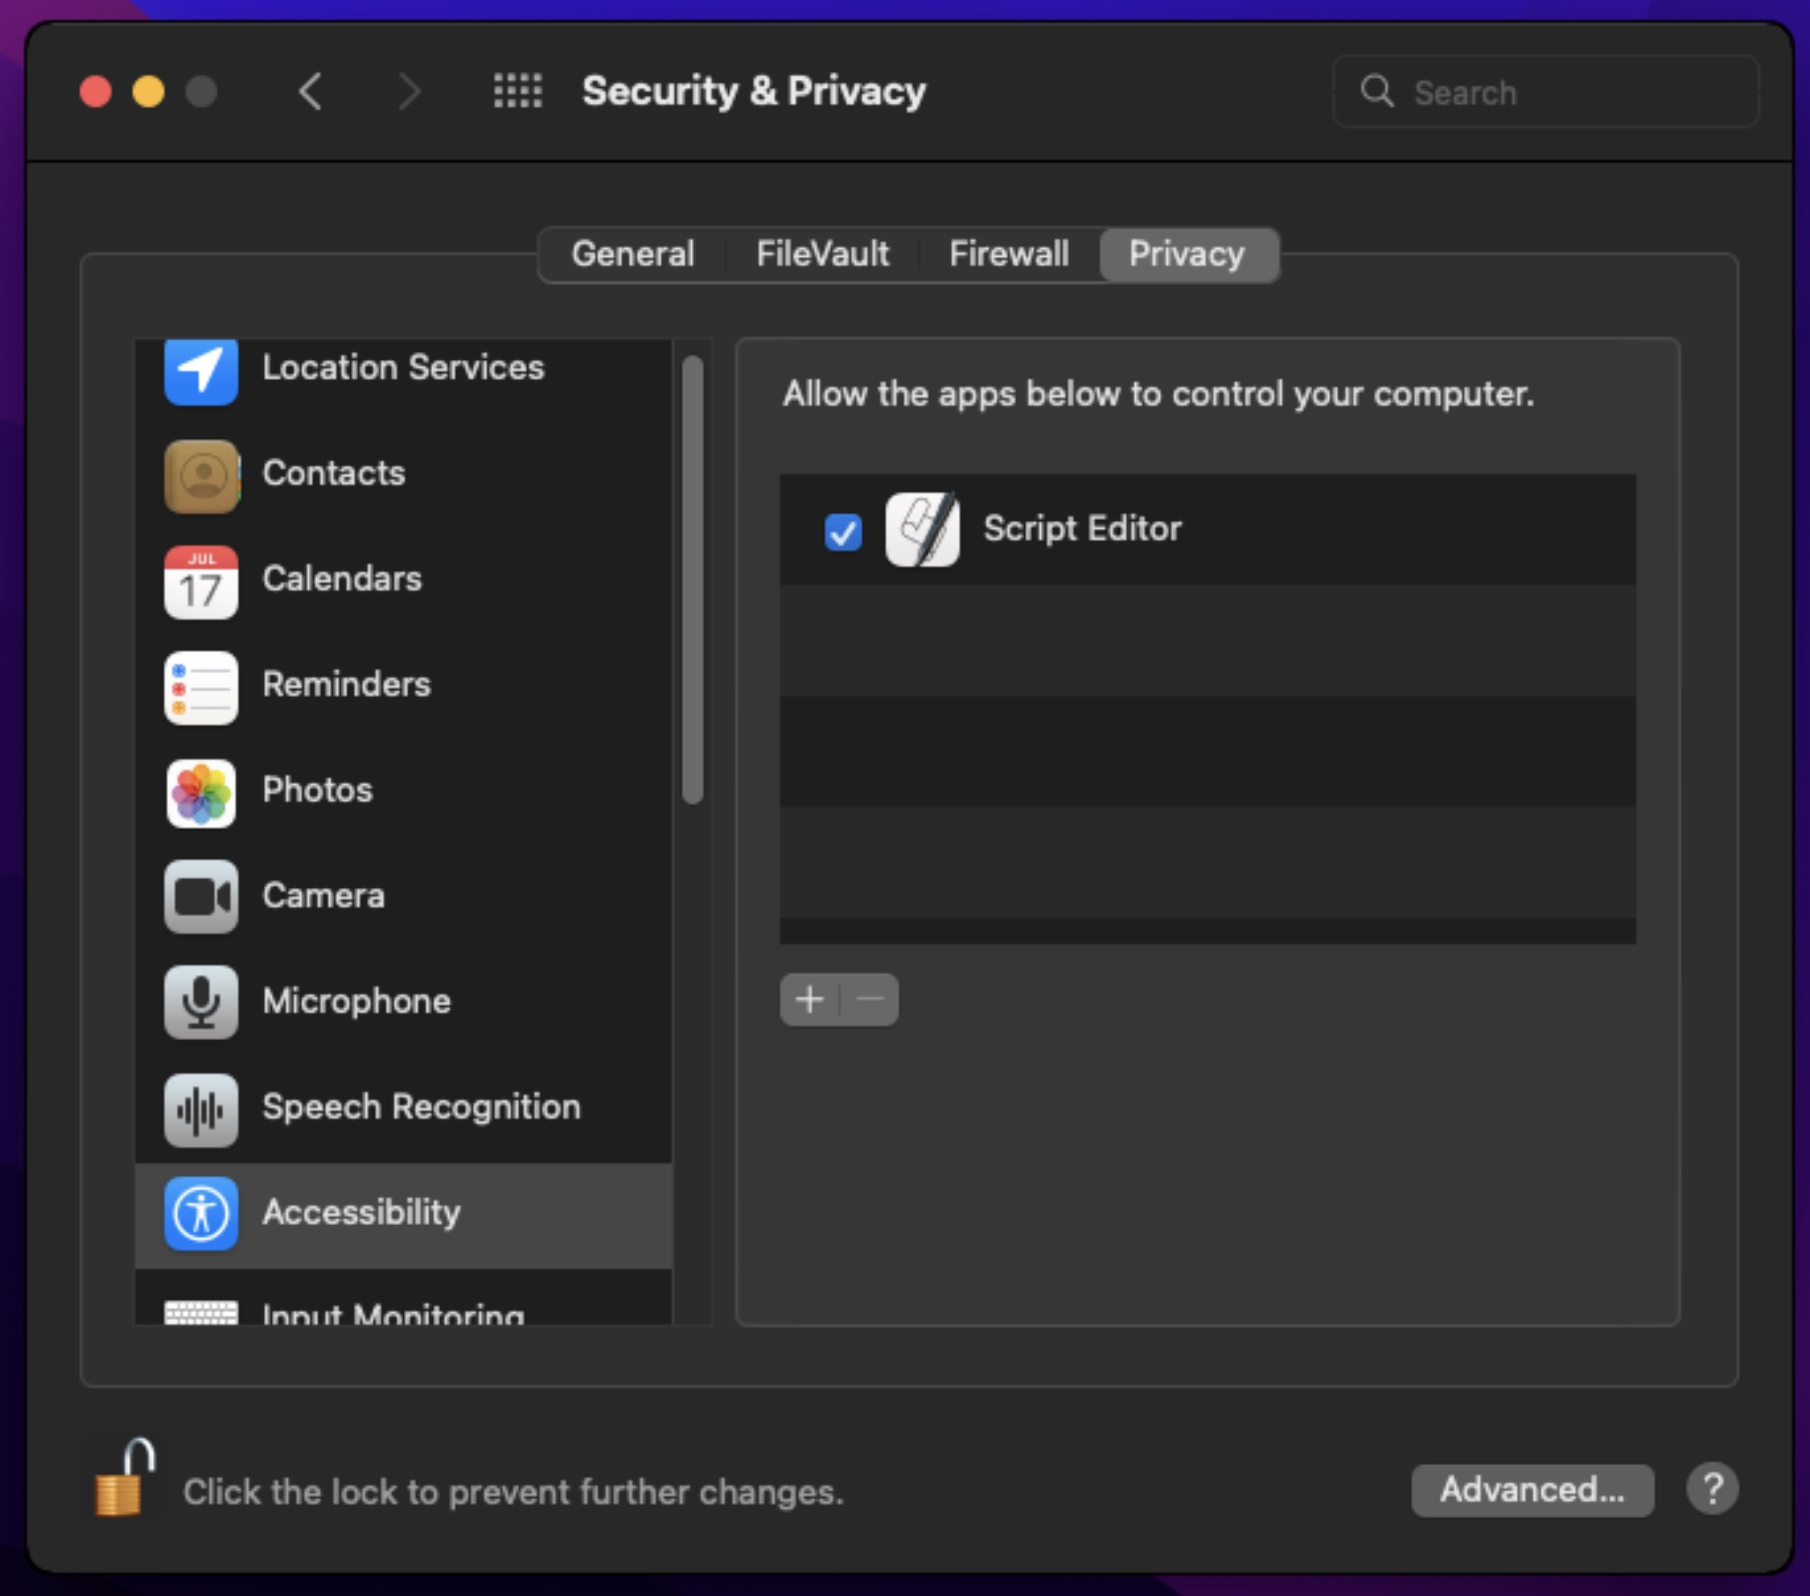
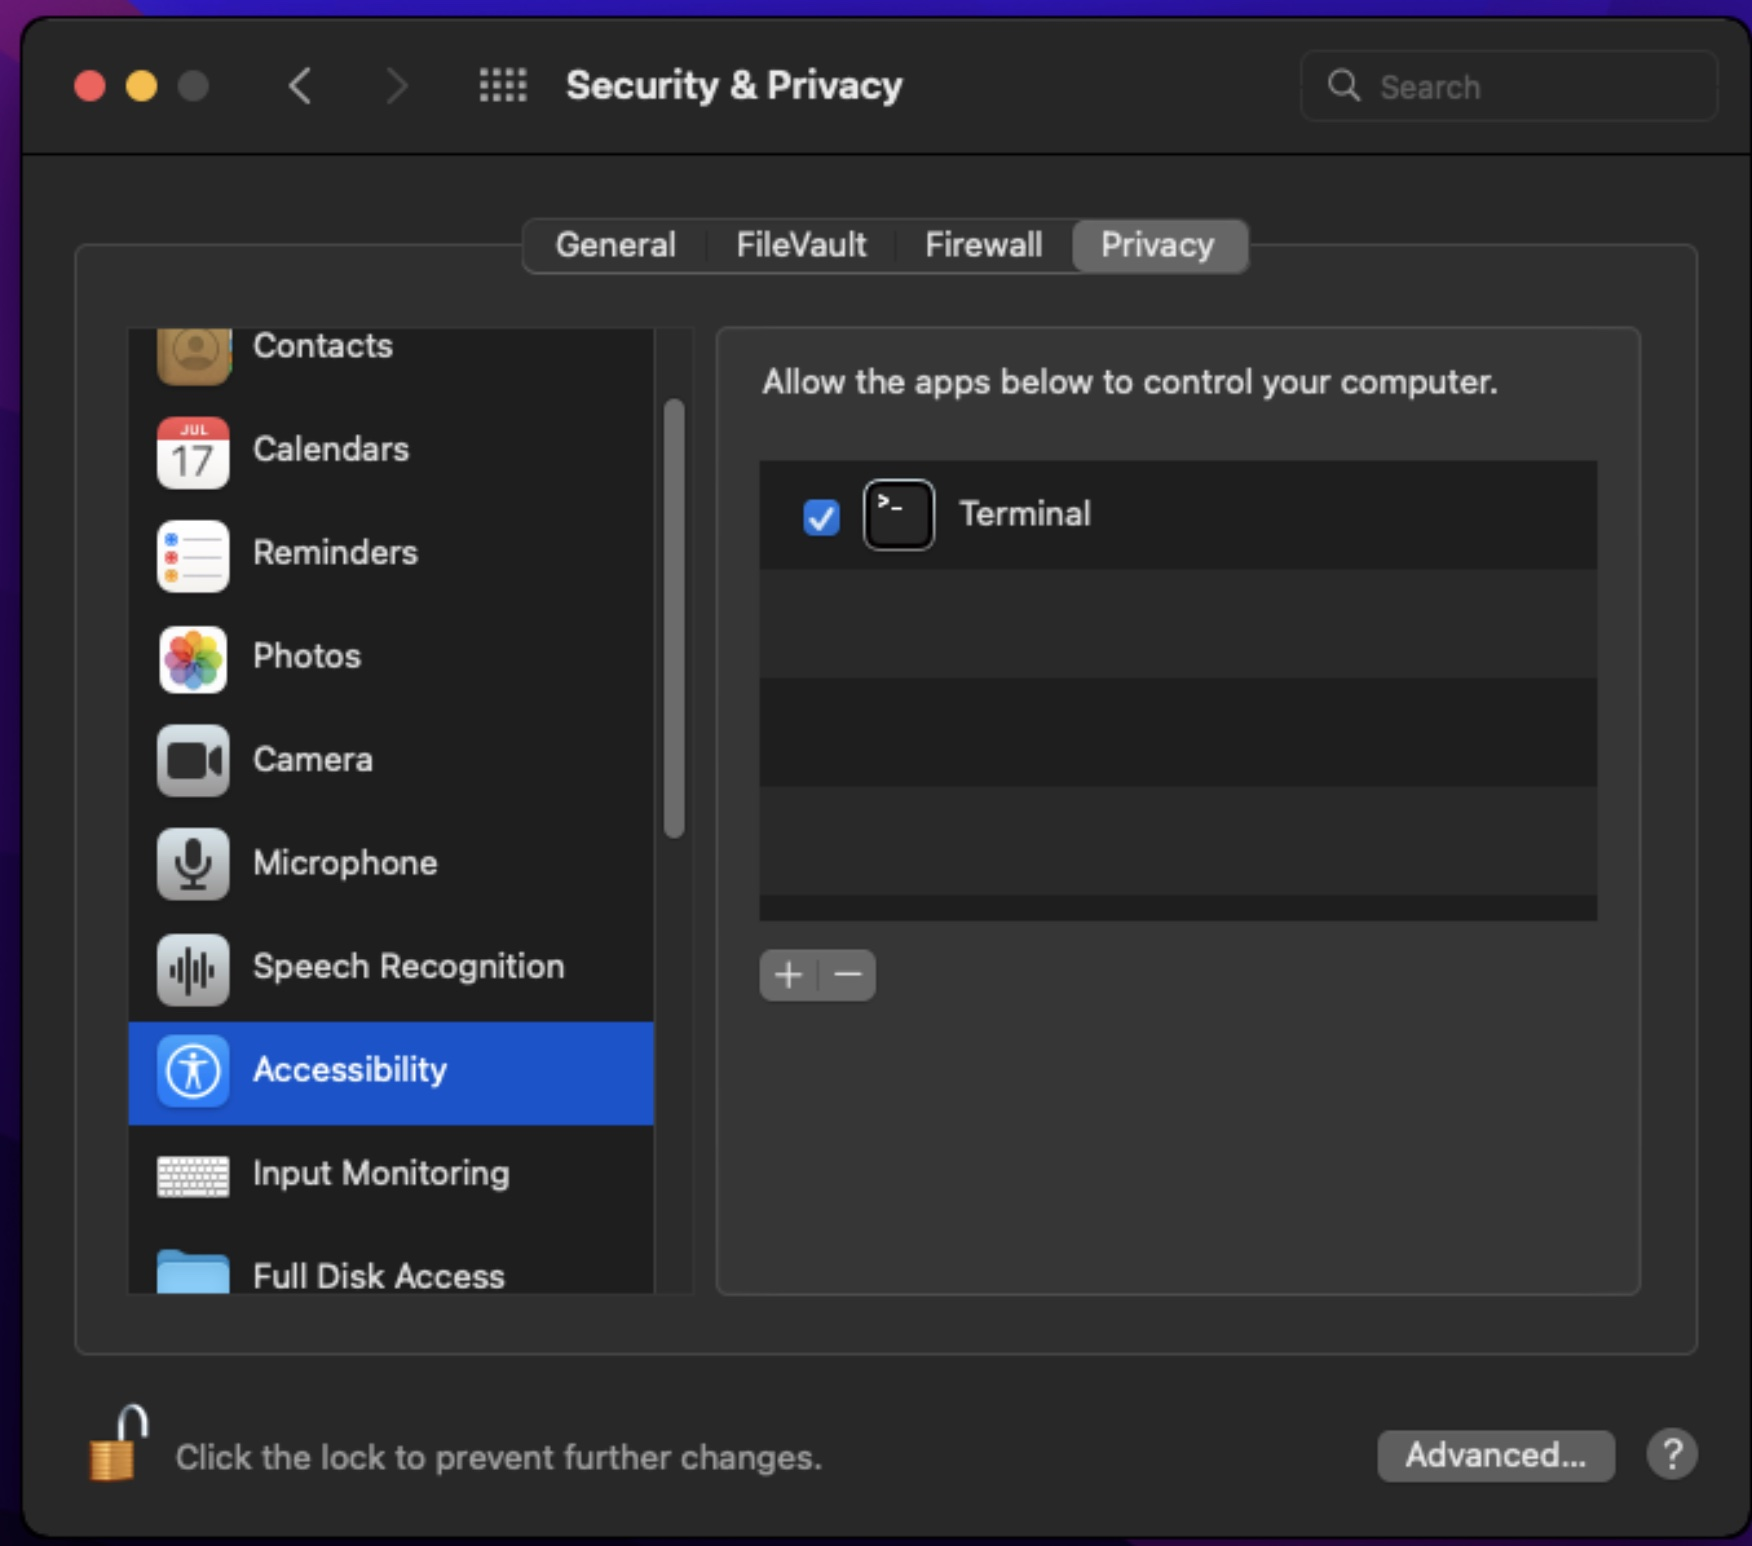
fix(install):  security settings

diff --git a/README.md b/README.md
@@ -21,12 +21,12 @@ I encourage you to view [the script](https://raw.githubusercontent.com/DatasiteL
     1. Click the Privacy tab.
     1. Click Accessibility.
     1. Click the Add button (+).
-    1. Choose an app (`/Applications/Utilities/Script Editor`) and click Open.
+    1. Choose an app (`/Applications/Utilities/Terminal`) and click Open.
 
       ![Script Editor Permissions Screen](./image/script-editor-permissions.jpg)
 
     1. Select the checkbox to the left of the app.
-    1. Quit the System Preferences applicaiton (`command + q`)
+    1. Quit the System Preferences application (`command + q`)
 
 1. Configure a data home directory. Co-locating things makes relative path-ing easier.
 
